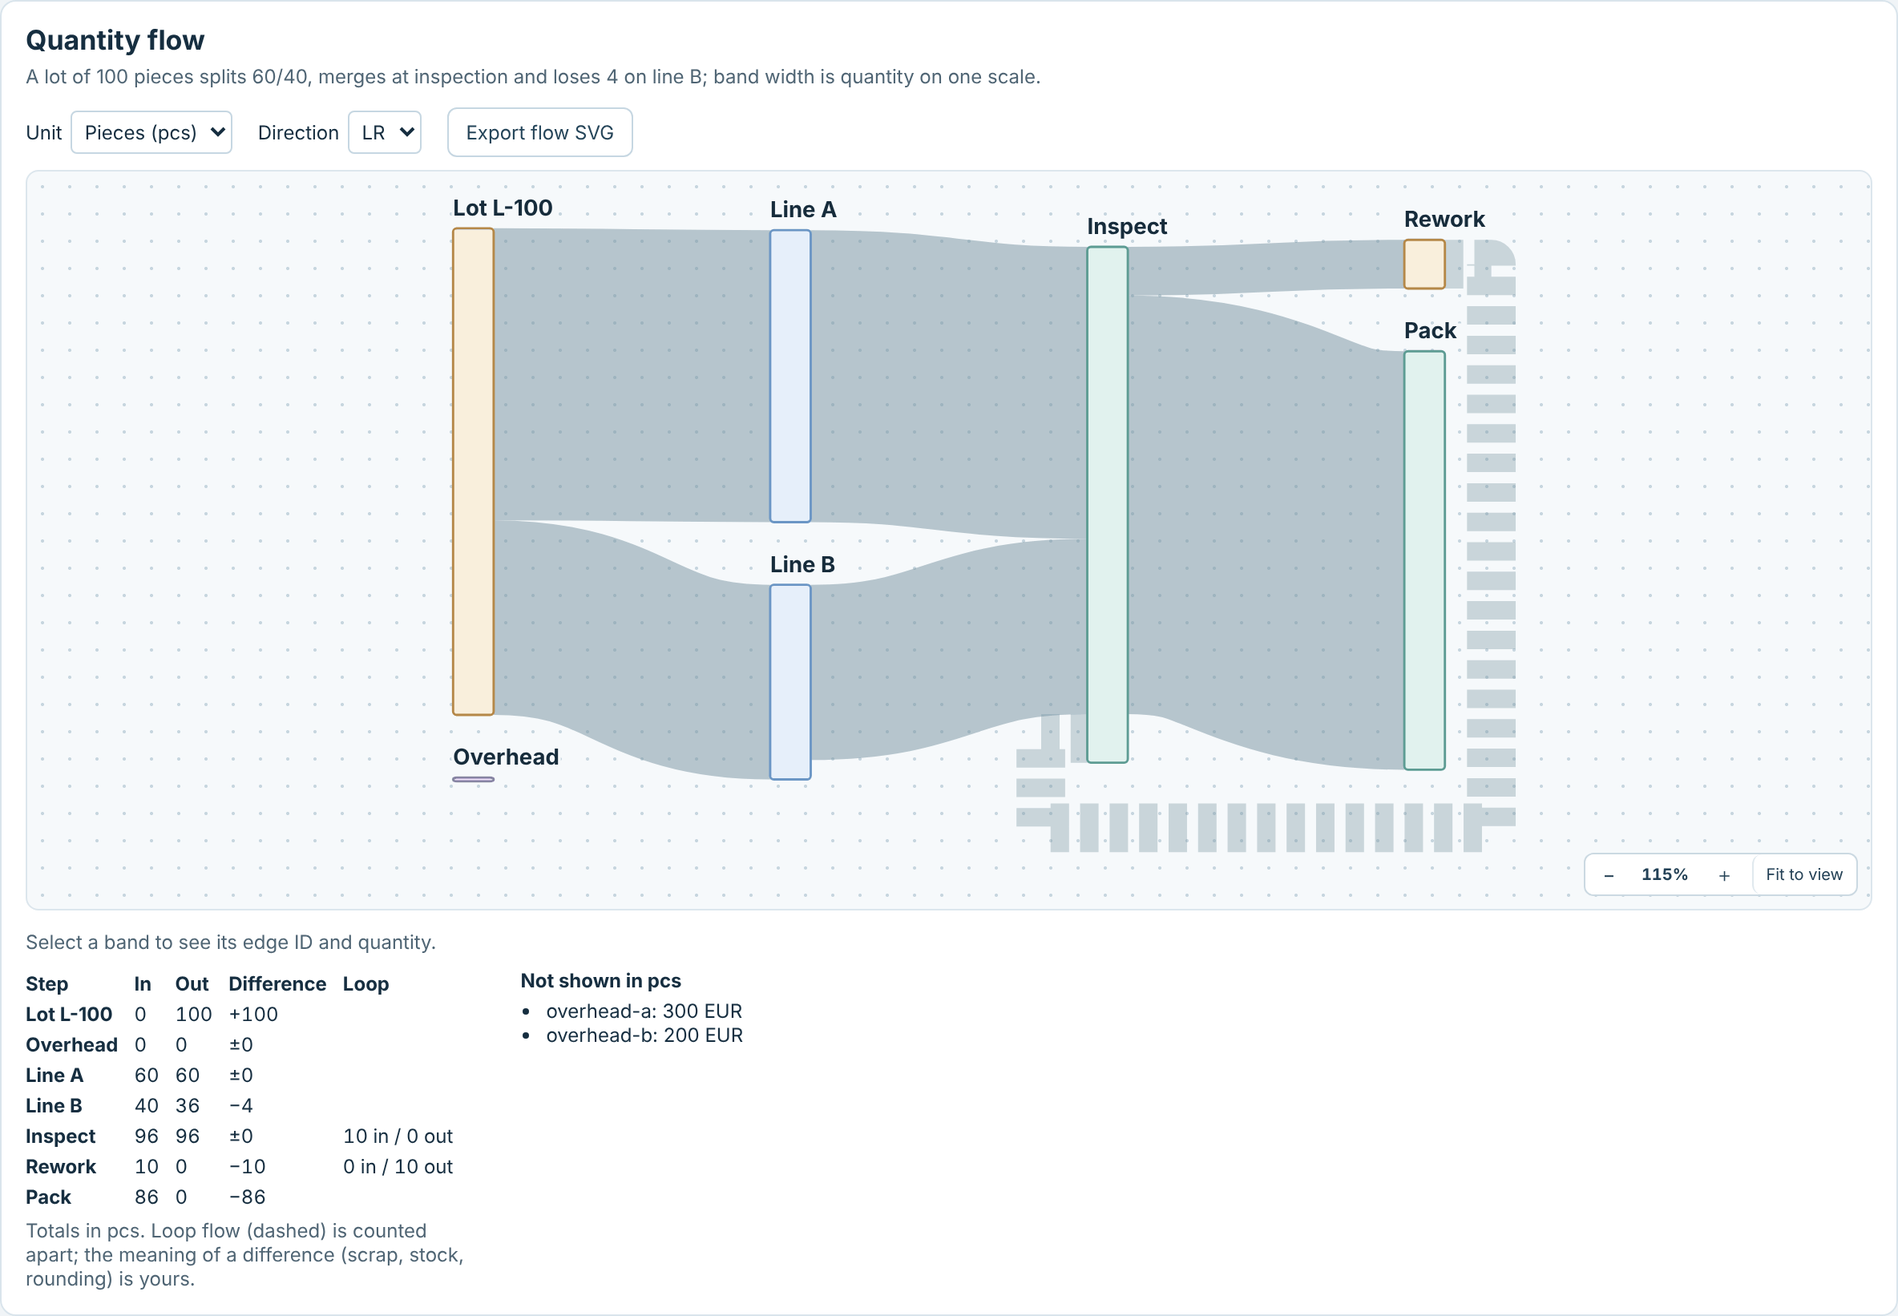
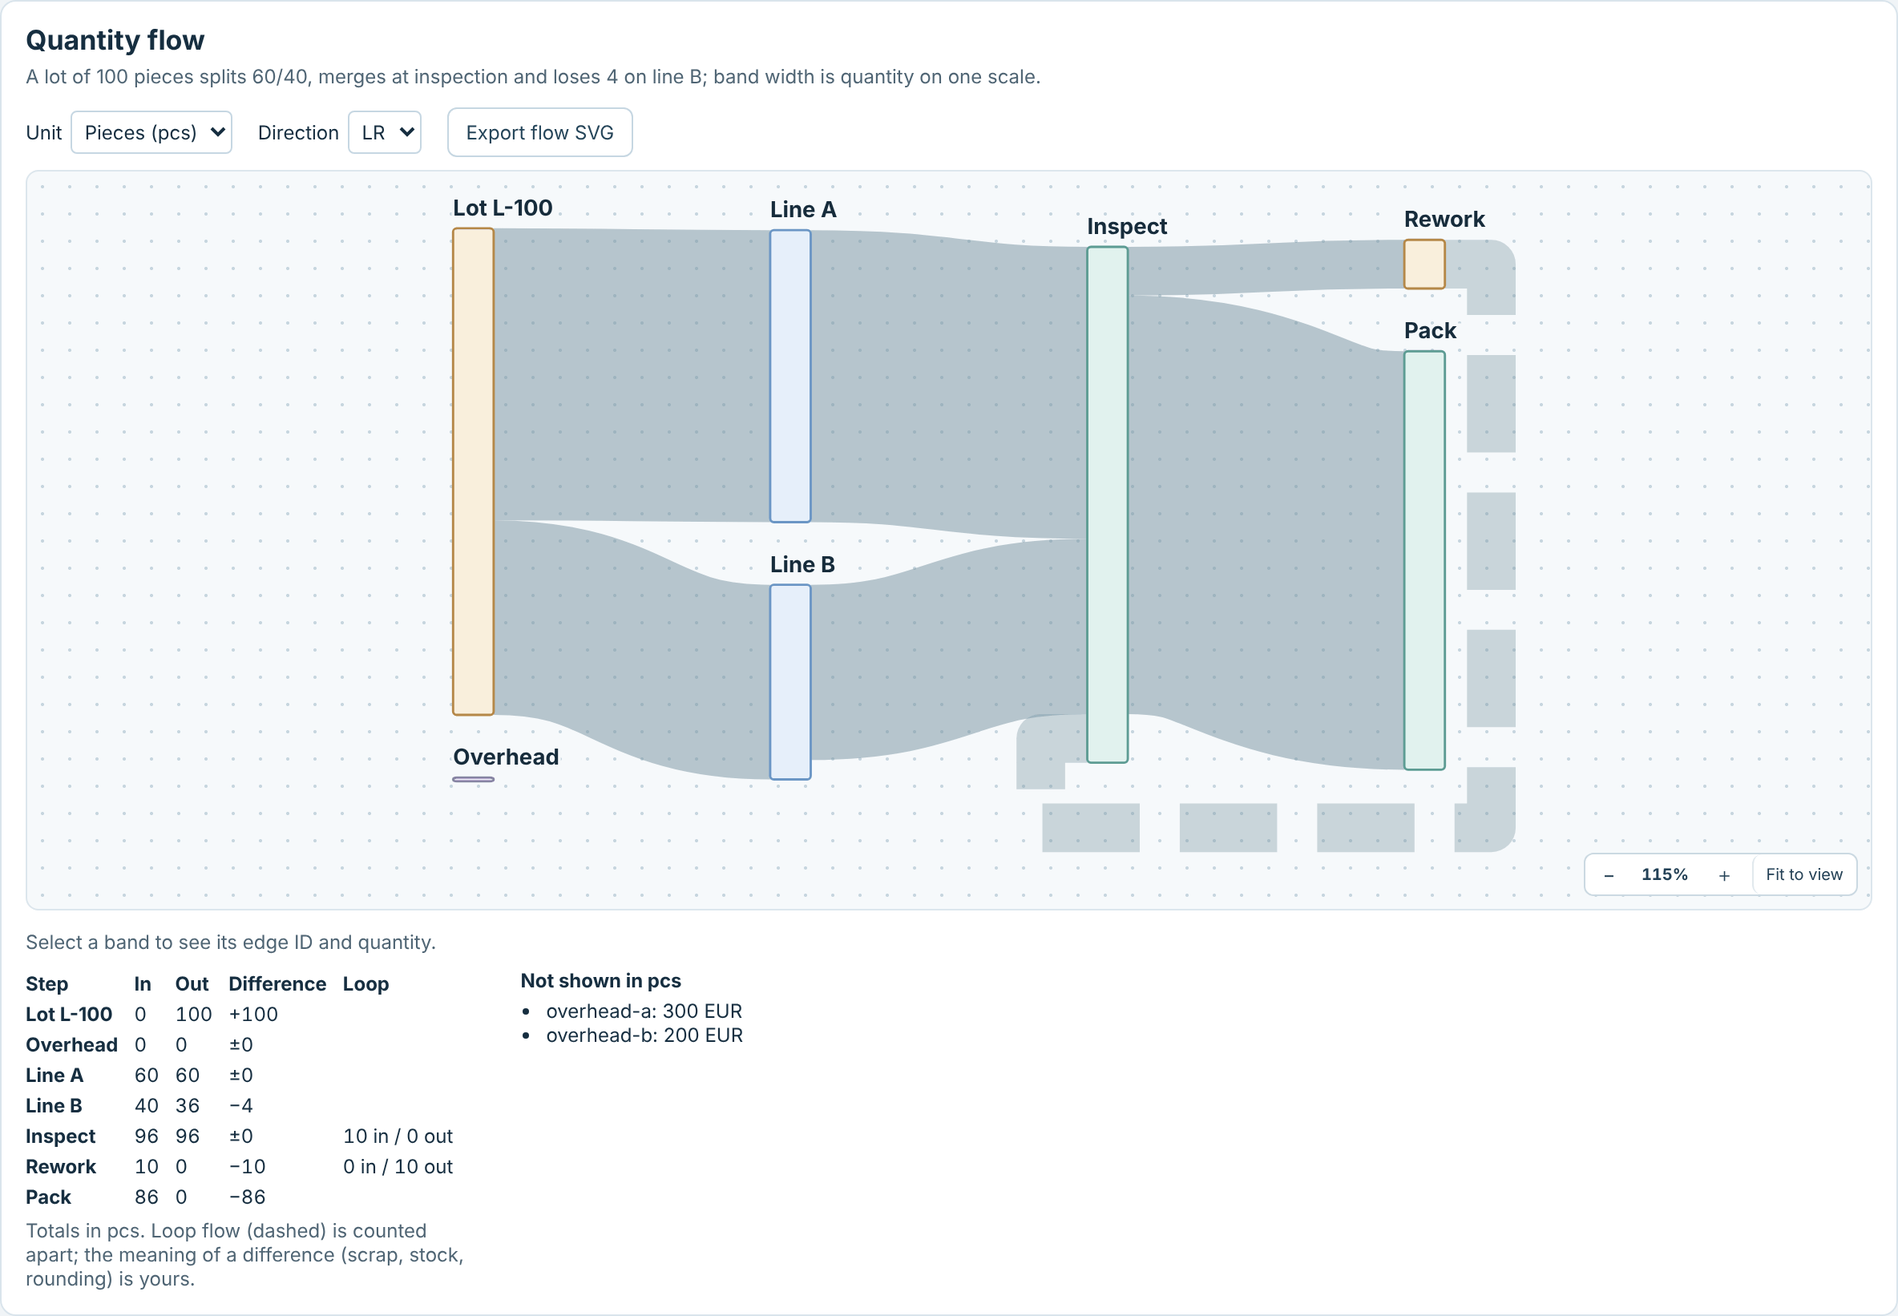
Scale reference band dashes with the band width
A wide loop band in a quantity flow was dashed with the fixed `10 6`
pattern, so its 50-unit stroke turned into a comb of stripes across the
lane, and the last short segment into the target ended in a gap that left
a detached block beside the node. The default reference dash now grows
with the band (dash twice, gap at least three quarters of its width), and
along a straight-segment loop route the gaps are evened out so the band
starts and ends with a dash. NetworkGraph and renderGraphSvg share the
rule; --vw-flow-reference-dash still overrides it. Recaptures the
quantity flow screenshot.

Claude-Session: https://claude.ai/code/session_01CQToDEgD6KB4r3UxQJ3rtk

Changed region(s): [[0.5312, 0.1864, 0.8125, 0.6523]]

diff --git a/src/core/graphFlow.ts b/src/core/graphFlow.ts
@@ -417,6 +417,40 @@ export function graphFlowBands(flow: Pick<GraphFlowLayout, 'bands'>): Map<string
   return new Map(flow.bands.map(band => [band.edgeId, { width: band.width, reference: band.reference, label: band.label }]))
 }
 
+/**
+ * The default dash pattern of a reference band of the given drawn width: `10 6` for thin bands, lengthened with the
+ * width (dash twice, gap at least three quarters of it) so a wide band reads as a dashed band rather than a comb of
+ * stripes. For a straight-segment path (`M`/`L` commands, as `layoutFlowGraph` routes loops) the gaps are evened out so
+ * the band starts and ends with a dash at its nodes.
+ */
+export function graphReferenceDash(width: number, path?: string) {
+  const round = (value: number) => Math.round(value * 100) / 100
+  const dash = Math.max(10, width * 2)
+  let gap = Math.max(6, width * 0.75)
+  const length = path === undefined ? undefined : polylineLength(path)
+  if (length !== undefined) {
+    const count = Math.floor((length + gap) / (dash + gap))
+    if (count > 1) gap = (length - count * dash) / (count - 1)
+  }
+  return `${round(dash)} ${round(gap)}`
+}
+
+/** The length of a path made only of absolute `M` and `L` commands, or undefined for any other path. */
+function polylineLength(path: string) {
+  if (!/^\s*M[\s\d.,eE+-]*(L[\s\d.,eE+-]*)*$/.test(path)) return undefined
+  let length = 0, last: [number, number] | undefined
+  for (const match of path.matchAll(/([ML])([^ML]*)/g)) {
+    const command = match[1], numbers = match[2]!.trim().split(/[\s,]+/).filter(Boolean).map(Number)
+    if (numbers.length % 2 || numbers.some(value => !Number.isFinite(value))) return undefined
+    for (let i = 0; i < numbers.length; i += 2) {
+      const point: [number, number] = [numbers[i]!, numbers[i + 1]!]
+      if (last && !(command === 'M' && i === 0)) length += Math.hypot(point[0] - last[0], point[1] - last[1])
+      last = point
+    }
+  }
+  return length
+}
+
 /** Validates an `edgeBands` map: every width finite and at least 0. Throws RangeError naming the edge. */
 export function assertGraphEdgeBands(bands: ReadonlyMap<string, GraphEdgeBand>, owner: string) {
   for (const [id, band] of bands) {

diff --git a/src/components/NetworkGraph.vue b/src/components/NetworkGraph.vue
@@ -29,7 +29,7 @@ import type { GraphDrop } from './types.js'
 import type { ChartDirection, GraphExportOptions, GraphPngExportOptions } from '../core/types.js'
 import { renderGraphSvg } from '../core/exportSvg.js'
 import { assertGraphSwimlaneBands, type GraphSwimlaneBand } from '../core/graphSwimlanes.js'
-import { assertGraphEdgeBands, graphBandOrder, type GraphEdgeBand } from '../core/graphFlow.js'
+import { assertGraphEdgeBands, graphBandOrder, graphReferenceDash, type GraphEdgeBand } from '../core/graphFlow.js'
 import { exportFont, rasterizeSvg, readExportTheme } from './exportImage.js'
 import { keep, keepIds, sameGeometry, sameRecord } from './networkGraph/equality.js'
 import { placeBox, sortExtents, type Extent } from './networkGraph/previewGeometry.js'
@@ -2556,7 +2556,7 @@ const EdgeItem: FunctionalComponent<EdgeItemProps> = (item, { slots }) => {
     renderSlot(slots, 'edge', { edge, path, selected, related, highlighted: Boolean(item.highlighted), dimmed, scale: shared.scale, ...band && { band } }, () => [
       band ? h('path', {
         class: ['vw-network-edge vw-network-band', { 'vw-is-related': related, 'vw-is-reference': Boolean(band.reference) }], d: path,
-        style: { strokeWidth: bandWidth },
+        style: band.reference ? { strokeWidth: bandWidth, '--vw-band-dash': graphReferenceDash(band.width, path) } : { strokeWidth: bandWidth },
       }) : h('path', {
         class: ['vw-network-edge', { 'vw-is-related': related, 'vw-is-animated': Boolean(edge.animated) }], d: path,
         'marker-start': markerUrl(shared.marker, edge, 'start'), 'marker-end': markerUrl(shared.marker, edge, 'end'),

diff --git a/src/core/exportSvg.ts b/src/core/exportSvg.ts
@@ -2,7 +2,7 @@ import { indexGraph, type GraphEdge, type GraphEdgeMarker, type GraphLayout } fr
 import { graphEdgeMarker, graphMarkerDrawing, graphOutlineElement, graphOutlineShape, graphOutlineText } from './graphShapes.js'
 import { graphPathBounds } from './graphView.js'
 import { assertGraphSwimlaneBands, type GraphSwimlaneBand } from './graphSwimlanes.js'
-import { assertGraphEdgeBands, graphBandOrder, type GraphEdgeBand } from './graphFlow.js'
+import { assertGraphEdgeBands, graphBandOrder, graphReferenceDash, type GraphEdgeBand } from './graphFlow.js'
 import {
   createTimelineRowTree, dependencyPath, dependencyTimes, formatDependencyLag, intersectsWindow, mirrorTimeScale, resourceLoadHistogram,
   summarizeTimelineRows, timeTicks, timelineBaselineId, validateTimelineData, type DependencyPathStyle, type TimeRange, type TimeScale,
@@ -379,7 +379,7 @@ export function renderGraphSvg<N extends NetworkNode, E extends GraphEdge>(
       content.push(tag('path', {
         class: band.reference ? 'vw-flow-band vw-is-reference' : 'vw-flow-band', d: layout.paths.get(edge.id)!, fill: 'none',
         stroke: strong ? highlight : theme.edge, 'stroke-width': band.width,
-        'stroke-opacity': band.reference ? 0.35 : strong ? 0.7 : 0.5, 'stroke-dasharray': band.reference ? '10 6' : undefined,
+        'stroke-opacity': band.reference ? 0.35 : strong ? 0.7 : 0.5, 'stroke-dasharray': band.reference ? graphReferenceDash(band.width, layout.paths.get(edge.id)) : undefined,
       }, band.label ? tag('title', {}, escapeXml(band.label)) : undefined))
       continue
     }

diff --git a/src/styles/style.css b/src/styles/style.css
@@ -544,10 +544,10 @@ path.vw-network-pattern { fill: none; stroke: var(--vw-background-pattern, var(-
    stay readable. Reference (loop) bands are dashed, which tells them apart without colour and in forced colours. */
 .vw-network-edge.vw-network-band { stroke-opacity: var(--vw-flow-band-opacity, .5); stroke-linecap: butt; stroke-linejoin: round; }
 .vw-network g:hover > .vw-network-band, .vw-edge-selected .vw-network-band, .vw-network .vw-is-highlighted .vw-network-band { stroke-opacity: var(--vw-flow-band-active-opacity, .78); }
-.vw-network-edge.vw-network-band.vw-is-reference { stroke-opacity: var(--vw-flow-reference-opacity, .35); stroke-dasharray: var(--vw-flow-reference-dash, 10 6); }
+.vw-network-edge.vw-network-band.vw-is-reference { stroke-opacity: var(--vw-flow-reference-opacity, .35); stroke-dasharray: var(--vw-flow-reference-dash, var(--vw-band-dash, 10 6)); }
 .vw-edge-hit.vw-is-band:focus-visible { stroke-opacity: .55; }
 @media (forced-colors: active) {
   .vw-network-edge.vw-network-band { stroke: CanvasText; }
-  .vw-network-edge.vw-network-band.vw-is-reference { stroke: GrayText; stroke-dasharray: 10 6; }
+  .vw-network-edge.vw-network-band.vw-is-reference { stroke: GrayText; stroke-dasharray: var(--vw-band-dash, 10 6); }
   .vw-edge-selected .vw-network-edge.vw-network-band { stroke: Highlight; stroke-opacity: .85; }
 }

diff --git a/test/browser/graph-view.spec.ts b/test/browser/graph-view.spec.ts
@@ -871,6 +871,16 @@ test('the quantity flow demo draws named bands on one scale, never mixes units a
   // The rework loop is a dashed reference band, not part of the totals.
   await expect(band('Rework → Inspect: 10 pcs')).toBeAttached()
   await expect(stage.locator('.vw-network-band.vw-is-reference')).toHaveCount(1)
+  // Its dashes grow with its width, so the wide loop reads as a dashed band rather than a comb of stripes; its gaps
+  // are evened out so it starts and ends with a dash at its nodes.
+  const dash = await band('Rework → Inspect: 10 pcs').evaluate(hit => {
+    const path = hit.parentElement!.querySelector('.vw-network-band')!
+    const style = getComputedStyle(path)
+    return { width: Number.parseFloat(style.strokeWidth), dashes: style.strokeDasharray.split(/[\s,]+/).map(Number.parseFloat) }
+  })
+  expect(dash.width).toBeGreaterThan(20)
+  expect(dash.dashes[0]).toBeCloseTo(dash.width * 2, 1)
+  expect(dash.dashes[1]).toBeGreaterThanOrEqual(dash.width * 0.75 - 0.01)
   const totals = page.getByRole('table', { name: 'Node totals' })
   await expect(totals.getByRole('row', { name: /^Line B/ }).getByRole('cell').nth(0)).toHaveText('40')
   await expect(totals.getByRole('row', { name: /^Line B/ }).getByRole('cell').nth(1)).toHaveText('36')

diff --git a/docs/api.md b/docs/api.md
@@ -422,7 +422,7 @@ const bands = computed(() => graphFlowBands(flow.value))
 <NetworkGraph :nodes="nodes" :edges="shownEdges" :layout="layout" :edge-bands="bands" :options="{ direction }" edges-selectable />
 ```
 
-A band is a stroke along the edge path, not a filled outline, so every edge feature that reads the path (hit areas, toolbars, culling, exports) works unchanged. Where a curve turns steeply its stroke looks slightly thinner than at its ends; keep `rankGap` large compared with the band widths. Saved `positions`, node drags and edge styles reroute bands like other edges, as curves between box centres, so keep flow pictures non-draggable. The theme variables are `--vw-flow-band-opacity` (default .5), `--vw-flow-band-active-opacity` (hover, selected and highlighted, default .78), `--vw-flow-reference-opacity` (default .35) and `--vw-flow-reference-dash` (default `10 6`); in forced colors bands use CanvasText, reference bands GrayText with the dash, and selected bands Highlight.
+A band is a stroke along the edge path, not a filled outline, so every edge feature that reads the path (hit areas, toolbars, culling, exports) works unchanged. Where a curve turns steeply its stroke looks slightly thinner than at its ends; keep `rankGap` large compared with the band widths. Saved `positions`, node drags and edge styles reroute bands like other edges, as curves between box centres, so keep flow pictures non-draggable. The theme variables are `--vw-flow-band-opacity` (default .5), `--vw-flow-band-active-opacity` (hover, selected and highlighted, default .78), `--vw-flow-reference-opacity` (default .35) and `--vw-flow-reference-dash` (default `10 6`, lengthened for wide bands to a dash of twice and a gap of at least three quarters of the band width, with the gaps of a straight-segment loop route evened out so it starts and ends with a dash; the export draws the same); in forced colors bands use CanvasText, reference bands GrayText with the dash, and selected bands Highlight.
 
 ## GanttChart
 
@@ -1874,7 +1874,7 @@ The core entry provides the same rendering without Vue or a DOM, for servers, wo
 
 | Export | Purpose |
 | --- | --- |
-| renderGraphSvg(layout, nodes, edges, options?) | SVG document of a graph layout. `GraphSvgOptions<N, E>` adds `lanes` (`GraphSwimlaneBand` bands drawn first, each a `g class="vw-swimlane"` with a `title`, alternating `surface` and `surfaceMuted` fills, a `surfaceMuted` header with a 1.5-unit `border` stroke and the label clipped to the header; validated like the NetworkGraph `lanes` prop), `groups` (`GraphSvgGroup` rectangles), `edgeBands` (`GraphEdgeBand` by edge ID, as the NetworkGraph prop and `graphFlowBands` give them: a `path class="vw-flow-band"` stroked with the band `width` in the edge or highlight colour at opacity 0.5, 0.7 when highlighted, without markers, with the band `label` as its `title`; a reference band adds `vw-is-reference`, opacity 0.35 and dashes `10 6`; bands are drawn widest first, before the other edges, and widen the exported bounds by half their width; a width that is not finite and at least 0 throws RangeError; without the option the output is unchanged), `selectedIds`, `highlightedNodeIds` and `highlightedEdgeIds` (a 3-unit node outline and a 2.6-unit edge with its own arrowhead, in `highlightColor`, default the theme's `dependencyHighlight`; without highlighted items the output is unchanged), `padding` and the label callbacks, which receive the node and edge types of the arguments, to the shared options. Node shapes, `markerStart` and `markerEnd` (markers with the IDs `<idPrefix>-<marker>` and `<idPrefix>-start-<marker>`, plus `-highlight` on highlighted edges, written only when used; hollow ones filled with `surfaceMuted`) and `animated` edges (dashed `6 4`, without motion) are drawn as NetworkGraph draws them; an unknown marker throws RangeError |
+| renderGraphSvg(layout, nodes, edges, options?) | SVG document of a graph layout. `GraphSvgOptions<N, E>` adds `lanes` (`GraphSwimlaneBand` bands drawn first, each a `g class="vw-swimlane"` with a `title`, alternating `surface` and `surfaceMuted` fills, a `surfaceMuted` header with a 1.5-unit `border` stroke and the label clipped to the header; validated like the NetworkGraph `lanes` prop), `groups` (`GraphSvgGroup` rectangles), `edgeBands` (`GraphEdgeBand` by edge ID, as the NetworkGraph prop and `graphFlowBands` give them: a `path class="vw-flow-band"` stroked with the band `width` in the edge or highlight colour at opacity 0.5, 0.7 when highlighted, without markers, with the band `label` as its `title`; a reference band adds `vw-is-reference`, opacity 0.35 and the default reference dashes (`10 6`, lengthened for wide bands like the NetworkGraph default); bands are drawn widest first, before the other edges, and widen the exported bounds by half their width; a width that is not finite and at least 0 throws RangeError; without the option the output is unchanged), `selectedIds`, `highlightedNodeIds` and `highlightedEdgeIds` (a 3-unit node outline and a 2.6-unit edge with its own arrowhead, in `highlightColor`, default the theme's `dependencyHighlight`; without highlighted items the output is unchanged), `padding` and the label callbacks, which receive the node and edge types of the arguments, to the shared options. Node shapes, `markerStart` and `markerEnd` (markers with the IDs `<idPrefix>-<marker>` and `<idPrefix>-start-<marker>`, plus `-highlight` on highlighted edges, written only when used; hollow ones filled with `surfaceMuted`) and `animated` edges (dashed `6 4`, without motion) are drawn as NetworkGraph draws them; an unknown marker throws RangeError |
 | renderTimelineSvg(rows, bars, dependencies, scale, options?) | SVG document of a timeline on any `TimeScale`. `TimelineSvgOptions` covers `collapsedIds`, `timeRange`, `rowRange`, `rowHeight` (66), `laneCount` (1), `labelWidth` (154), `columns` (validated as the GanttChart prop), `showSummaries`, `summaryDependencies` (as the GanttChart prop; needs `showSummaries`), `headerBands`, `markers`, `markerRanges` (validated as the GanttChart prop; drawn with each range's tone, or the `range`, `rangeLine` and `rangeInk` theme colours, at 0.7 fill opacity), `now`, `nowLabel`, `tickStep` or `tickSteps`, `tickAnchor`, `formatTime`, `rowHeading`, `loadRows`, `loadSegments`, `loadRowHeight` (44), `highlightedDependencyIds`, `dependencyStyle` (as the GanttChart prop, default `orthogonal`), `highlightedBarIds` (bars outlined in the `dependencyHighlight` theme colour, with the `vw-is-highlighted` class on their group), `nonWorkingPeriods`, `statusDate`, `statusDateLabel` (default "Status date"), `showProgressLine`, `formatLag` (default `formatDependencyLag`; labels each dependency with a non-zero `lag`), `baselineIds`, `baselineLabel` (default "Baseline" for `timelineBaselineId`, otherwise the set ID), `formatVariance` (default `formatDependencyLag`) and `varianceLabels` (`start`, `finish`, `duration`; defaults "start", "finish" and "duration"), which draw baseline sets as described in [Baseline sets](#baseline-sets), `constraintLabels` (text of each `TimelineConstraintKind` in marker titles; defaults as `GanttLabels`) and `constraintViolatedLabel` (default "violated"), `barLabel` and `rowLabel`; `columns` and the label callbacks receive the row and bar types of the arguments (`TimelineSvgOptions<R, B>`). Bar fields `critical`, `latestEnd`, `deadline`, `segments` and `constraints` are drawn as on screen |
 | escapeXml(text) | Escape `& < > " '` and drop characters that XML 1.0 forbids |
 | defaultSvgExportTheme | The stylesheet's fallback colours as an `SvgExportTheme` |

diff --git a/docs/integration.md b/docs/integration.md
@@ -248,14 +248,14 @@ The opt-in swimlanes of NetworkGraph (`lanes`) add five variables; their default
 | `--vw-lane-border` | `--vw-border` (`#c9d6df`) | Outline of bands and headers, and the minimap lane outlines |
 | `--vw-lane-title` | `--vw-text` (`#172c3b`) | Lane title text |
 
-The opt-in quantity bands of NetworkGraph (`edgeBands`) stroke each band's edge path (`vw-network-edge vw-network-band`) in `--vw-edge` with the band width, and reference (loop) bands (`vw-is-reference`) with a dash pattern, so they differ without colour. Selected bands take `--vw-edge-selected` and highlighted ones `--vw-graph-highlight`; the hit area of a band (`vw-edge-hit vw-is-band`) is as wide as the band. In forced-colors mode bands are drawn in `CanvasText`, reference bands in `GrayText` with their dashes and selected bands in `Highlight`. Four variables:
+The opt-in quantity bands of NetworkGraph (`edgeBands`) stroke each band's edge path (`vw-network-edge vw-network-band`) in `--vw-edge` with the band width, and reference (loop) bands (`vw-is-reference`) with a dash pattern, so they differ without colour. The default pattern is `10 6`, lengthened for wide bands (dash twice and gap at least three quarters of the band width) so a wide loop band reads as dashed rather than as a comb of stripes; along a straight-segment loop route the gaps are evened out so the band starts and ends with a dash at its nodes. Selected bands take `--vw-edge-selected` and highlighted ones `--vw-graph-highlight`; the hit area of a band (`vw-edge-hit vw-is-band`) is as wide as the band. In forced-colors mode bands are drawn in `CanvasText`, reference bands in `GrayText` with their dashes and selected bands in `Highlight`. Four variables:
 
 | Variable | Default | Used for |
 | --- | --- | --- |
 | `--vw-flow-band-opacity` | `.5` | Opacity of a band, so crossing bands stay readable |
 | `--vw-flow-band-active-opacity` | `.78` | Opacity of a hovered, selected or highlighted band |
 | `--vw-flow-reference-opacity` | `.35` | Opacity of a reference (loop) band |
-| `--vw-flow-reference-dash` | `10 6` | Dash pattern of a reference band |
+| `--vw-flow-reference-dash` | `10 6`, scaled with the band width | Dash pattern of a reference band; setting it uses one pattern for every width |
 
 With the `group` slot, the stylesheet does not paint the slot content (the group gets `vw-has-slot`), and the transparent move handle (`vw-group-handle`) shows an `--vw-accent` outline while focused. The `minimap-node` slot content sits in a `vw-minimap-custom` group, which the minimap's rectangle fill does not reach.
 
